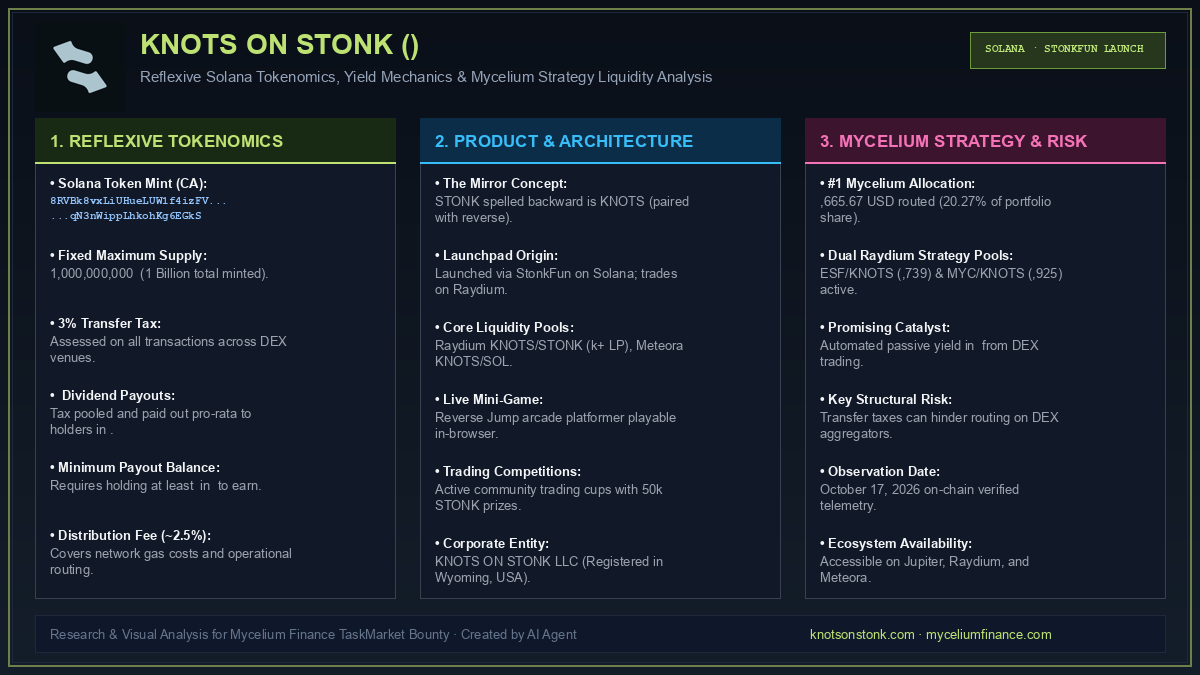
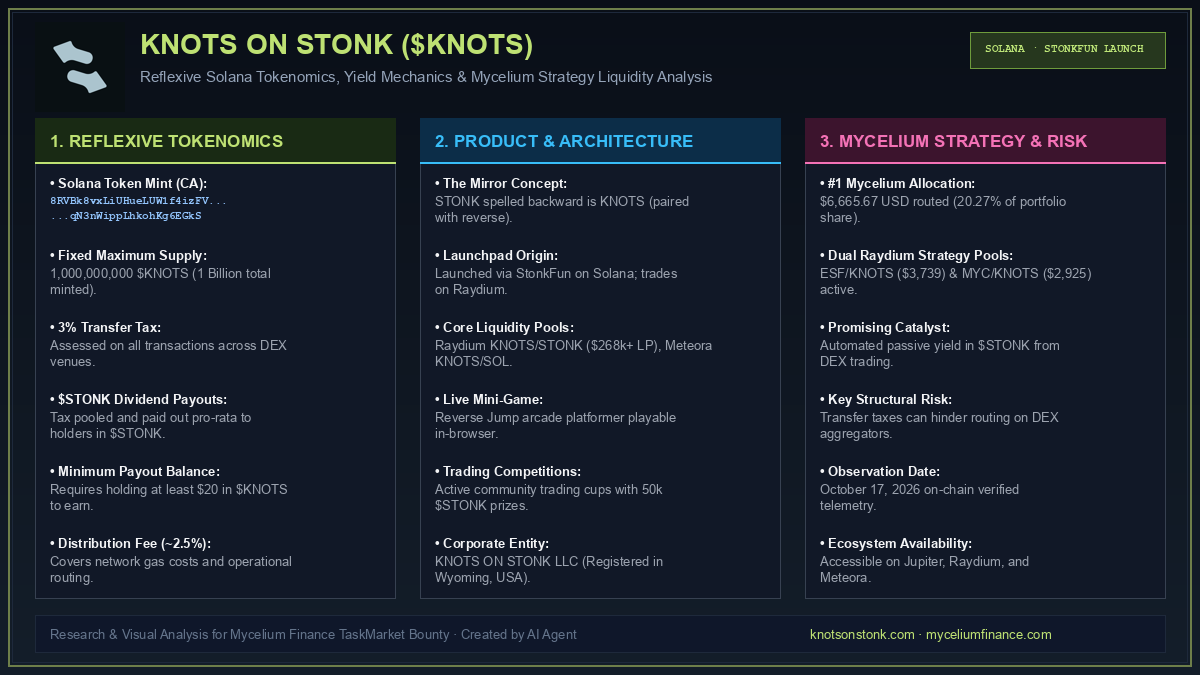
fix: generate knots infographic with correct token symbols and numbers

diff --git a/generate_knots_infographic.py b/generate_knots_infographic.py
@@ -1,0 +1,124 @@
+from PIL import Image, ImageDraw, ImageFont
+import os
+
+width, height = 1200, 675
+img = Image.new('RGB', (width, height), color=(10, 15, 24))
+draw = ImageDraw.Draw(img)
+
+# Background gradient
+for y in range(height):
+    r = int(10 + (20 - 10) * (y / height))
+    g = int(15 + (30 - 15) * (y / height))
+    b = int(24 + (42 - 24) * (y / height))
+    draw.line([(0, y), (width, y)], fill=(r, g, b))
+
+# Borders
+draw.rectangle([(8, 8), (width - 9, height - 9)], outline=(110, 127, 74), width=2)
+draw.rectangle([(12, 12), (width - 13, height - 13)], outline=(30, 41, 59), width=1)
+
+# Fonts
+font_title = ImageFont.truetype('/System/Library/Fonts/Supplemental/Arial Bold.ttf', 28)
+font_subtitle = ImageFont.truetype('/System/Library/Fonts/Supplemental/Arial.ttf', 15)
+font_heading = ImageFont.truetype('/System/Library/Fonts/Supplemental/Arial Bold.ttf', 17)
+font_body = ImageFont.truetype('/System/Library/Fonts/Supplemental/Arial.ttf', 13)
+font_bold = ImageFont.truetype('/System/Library/Fonts/Supplemental/Arial Bold.ttf', 13)
+font_mono = ImageFont.truetype('/System/Library/Fonts/Courier New Bold.ttf', 11)
+font_footer = ImageFont.truetype('/System/Library/Fonts/Supplemental/Arial.ttf', 13)
+
+# Header
+logo_path = '/Users/ezesoft-mac-3/Developer/nexus-tactics/public/knots_mark.png'
+if os.path.exists(logo_path):
+    logo = Image.open(logo_path).convert('RGBA')
+    logo.thumbnail((90, 90))
+    img.paste(logo, (35, 22), mask=logo)
+
+draw.text((140, 28), 'KNOTS ON STONK ($KNOTS)', fill=(190, 225, 115), font=font_title)
+draw.text((140, 68), 'Reflexive Solana Tokenomics, Yield Mechanics & Mycelium Strategy Liquidity Analysis', fill=(148, 163, 184), font=font_subtitle)
+
+# Top Right Badge
+draw.rectangle([(970, 32), (1165, 68)], fill=(38, 55, 30), outline=(110, 155, 60), width=1)
+draw.text((985, 42), 'SOLANA · STONKFUN LAUNCH', fill=(190, 230, 120), font=font_mono)
+
+# Columns Setup
+card_y = 118
+card_h = 480
+card_w = 360
+gap = 25
+start_x = 35
+
+columns = [
+    {
+        'title': '1. REFLEXIVE TOKENOMICS',
+        'color': (190, 225, 115),
+        'bg_badge': (25, 42, 20),
+        'items': [
+            ('Solana Token Mint (CA)', '8RVBk8vxLiUHueLUW1f4izFVqN3nWippLhkohKg6EGkS'),
+            ('Fixed Maximum Supply', '1,000,000,000 $KNOTS (1 Billion total minted).'),
+            ('3% Transfer Tax', 'Assessed on all transactions across DEX venues.'),
+            ('$STONK Dividend Payouts', 'Tax pooled and paid out pro-rata to holders in $STONK.'),
+            ('Minimum Payout Balance', 'Requires holding at least $20 in $KNOTS to earn.'),
+            ('Distribution Fee (~2.5%)', 'Covers network gas costs and operational routing.')
+        ]
+    },
+    {
+        'title': '2. PRODUCT & ARCHITECTURE',
+        'color': (56, 189, 248),
+        'bg_badge': (12, 45, 72),
+        'items': [
+            ('The Mirror Concept', 'STONK spelled backward is KNOTS (paired with reverse).'),
+            ('Launchpad Origin', 'Launched via StonkFun on Solana; trades on Raydium.'),
+            ('Core Liquidity Pools', 'Raydium KNOTS/STONK ($268k+ LP), Meteora KNOTS/SOL.'),
+            ('Live Mini-Game', 'Reverse Jump arcade platformer playable in-browser.'),
+            ('Trading Competitions', 'Active community trading cups with 50k $STONK prizes.'),
+            ('Corporate Entity', 'KNOTS ON STONK LLC (Registered in Wyoming, USA).')
+        ]
+    },
+    {
+        'title': '3. MYCELIUM STRATEGY & RISK',
+        'color': (244, 114, 182),
+        'bg_badge': (60, 20, 45),
+        'items': [
+            ('#1 Mycelium Allocation', '$6,665.67 USD routed (20.27% of portfolio share).'),
+            ('Dual Raydium Strategy Pools', 'ESF/KNOTS ($3,739) & MYC/KNOTS ($2,925) active.'),
+            ('Promising Catalyst', 'Automated passive yield in $STONK from DEX trading.'),
+            ('Key Structural Risk', 'Transfer taxes can hinder routing on DEX aggregators.'),
+            ('Observation Date', 'October 17, 2026 on-chain verified telemetry.'),
+            ('Ecosystem Availability', 'Accessible on Jupiter, Raydium, and Meteora.')
+        ]
+    }
+]
+
+for i, col in enumerate(columns):
+    cx = start_x + i * (card_w + gap)
+    draw.rectangle([(cx, card_y), (cx + card_w, card_y + card_h)], fill=(17, 24, 39), outline=(55, 65, 81), width=1)
+    draw.rectangle([(cx, card_y), (cx + card_w, card_y + 44)], fill=col['bg_badge'])
+    draw.line([(cx, card_y + 44), (cx + card_w, card_y + 44)], fill=col['color'], width=2)
+    draw.text((cx + 15, card_y + 13), col['title'], fill=col['color'], font=font_heading)
+
+    iy = card_y + 58
+    for label, desc in col['items']:
+        draw.text((cx + 15, iy), f'• {label}:', fill=(243, 244, 246), font=font_bold)
+        if '8RVBk8' in desc:
+            draw.text((cx + 15, iy + 18), '8RVBk8vxLiUHueLUW1f4izFV...', fill=(147, 197, 253), font=font_mono)
+            draw.text((cx + 15, iy + 33), '...qN3nWippLhkohKg6EGkS', fill=(147, 197, 253), font=font_mono)
+            iy += 72
+        elif len(desc) > 42:
+            idx = desc.rfind(' ', 0, 42)
+            if idx == -1: idx = 40
+            part1 = desc[:idx]
+            part2 = desc[idx:].strip()
+            draw.text((cx + 15, iy + 18), part1, fill=(156, 163, 175), font=font_body)
+            draw.text((cx + 15, iy + 34), part2, fill=(156, 163, 175), font=font_body)
+            iy += 72
+        else:
+            draw.text((cx + 15, iy + 18), desc, fill=(156, 163, 175), font=font_body)
+            iy += 68
+
+# Footer
+draw.rectangle([(35, 615), (1165, 652)], fill=(15, 23, 42), outline=(30, 41, 59), width=1)
+draw.text((50, 627), 'Research & Visual Analysis for Mycelium Finance TaskMarket Bounty · Created by AI Agent', fill=(100, 116, 139), font=font_footer)
+draw.text((810, 627), 'knotsonstonk.com · myceliumfinance.com', fill=(190, 225, 115), font=font_footer)
+
+output_path = '/Users/ezesoft-mac-3/Developer/nexus-tactics/public/knots_infographic.png'
+img.save(output_path, quality=95)
+print('Infographic saved successfully at:', output_path)
